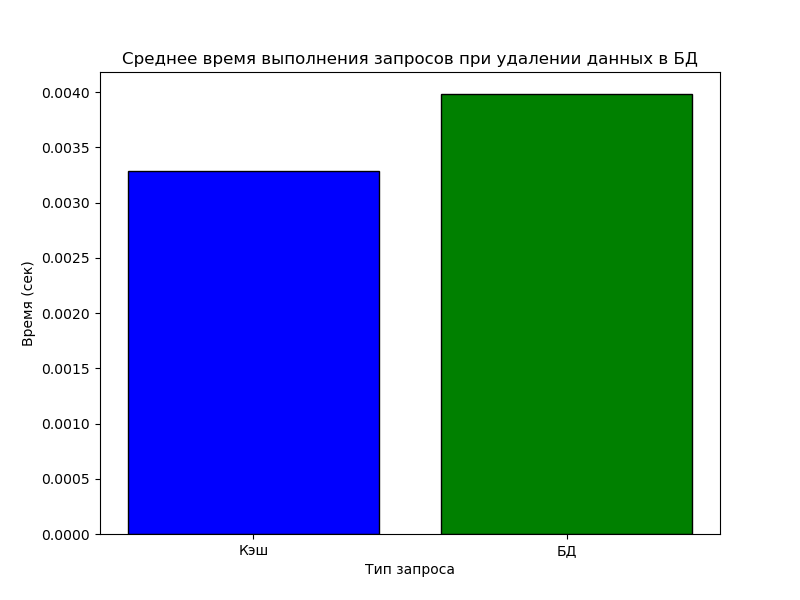
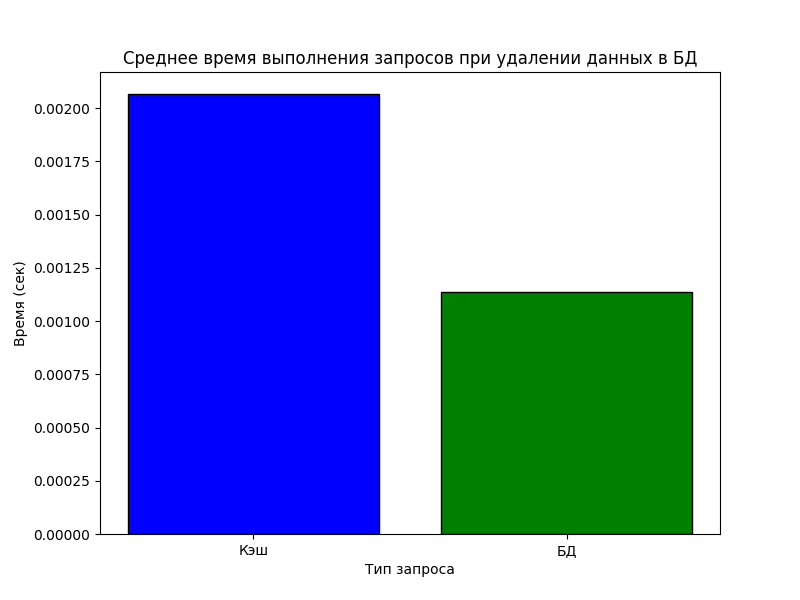
lab9 fix

diff --git a/lab9/task_02.py b/lab9/task_02.py
@@ -2,18 +2,19 @@ import psycopg2
 import redis
 import time
 import json
-from datetime import datetime
 import random
 from threading import Thread, Lock
 import matplotlib.pyplot as plt
 import os
-
+import string
 from config import *
-from gen_json_db_data import Data
 
 output_dir = "grhs"
 if not os.path.exists(output_dir):
     os.makedirs(output_dir)
+
+def generate_random_string(size=6, chars=string.ascii_uppercase + string.digits):
+    return ''.join(random.choice(chars) for _ in range(size))
 
 conn = psycopg2.connect(
     dbname=DB_NAME, 
@@ -23,20 +24,37 @@ conn = psycopg2.connect(
     port=DB_PORT
 )
 cursor = conn.cursor()
-flag = True
 
 r = redis.Redis(host='localhost', port=6379, db=0)
 
 cache_durations = []
 db_durations = []
+ids = []
 
 db_lock = Lock()
+flag = True
 
-def get_top_songs_from_db():
+
+def create_temp_table():
     cursor.execute("""
-        SELECT s.song_id, s.title, s.popularity
-        FROM songs s
-        ORDER BY popularity DESC
+        CREATE TABLE IF NOT EXISTS redis_table
+        (id INT,
+        name TEXT,
+        value BIGINT)""")
+    for i in range(3000):
+        cursor.execute(f"""
+                    INSERT INTO redis_table (id, name, value)
+                    VALUES (%s, %s, %s)
+            """, (i, generate_random_string(), random.randint(0, 1000)))
+        conn.commit()
+        ids.append(i)
+
+
+def get_top_data_from_db():
+    cursor.execute("""
+        SELECT id
+        FROM redis_table
+        ORDER BY value DESC
         LIMIT 10;
     """)
     try:
@@ -45,74 +63,58 @@ def get_top_songs_from_db():
         return None
 
 
-def cache_top_songs():
-    top_songs = get_top_songs_from_db()
-    r.setex('top_songs', 1800, json.dumps(top_songs))
+def cache_top_data():
+    top_data = get_top_data_from_db()
+    r.setex('top_data', 1800, json.dumps(top_data))
 
 
-def get_top_songs_from_cache():
+def get_top_data_from_cache():
     global flag
-    cached_data = r.get('top_songs')
+    cached_data = r.get('top_data')
 
     if cached_data and flag:
         return json.loads(cached_data)
     else:
         flag = True
-        cache_top_songs()
-        return get_top_songs_from_cache()
+        cache_top_data()
+        return get_top_data_from_cache()
 
 
-def add_random_song():
+def insert_random_data():
     global flag
-    cursor.execute("SELECT COALESCE(MAX(song_id), 0) + 1 FROM songs")
-    newID = cursor.fetchone()[0]
-
-    data = Data()
-    new_song = data.generate_song(1)
-    cursor.execute("""
-            INSERT INTO songs (song_id, title, duration, popularity, clip)
-            VALUES (%s, %s, %s, %s, %s)
-    """, (newID, new_song[1], new_song[2], new_song[3], new_song[4]))
+    new_id = len(ids)
+    cursor.execute(f"""
+            INSERT INTO redis_table (id, name, value)
+            VALUES (%s, %s, %s)
+    """, (new_id, generate_random_string(), random.randint(0, 1000)))
     conn.commit()
+    ids.append(new_id)
 
     flag = False
 
 
-def delete_random_song():
-    while True:
-        random_id = random.randint(1, 1000)
-        cursor.execute("SELECT COUNT(*) FROM songs WHERE song_id = %s", (random_id,))
-        exists = cursor.fetchone()[0] > 0
-        if exists:
-            cursor.execute('''
-                           DELETE FROM labels WHERE song_id = %s;
-                           DELETE FROM songs WHERE song_id = %s''', (random_id, random_id))
-            conn.commit()
-            global flag
-            flag = False
-            break
+def delete_random_data():
+    rand_id = random.choice(ids)
+    ids.remove(rand_id)
+    cursor.execute(f"DELETE FROM redis_table WHERE id = {rand_id}")
+    conn.commit()
+    global flag
+    flag = False
 
 
-def update_random_song():
-    prod_count = random.randint(1, 1000) 
-    while True:
-        random_id = random.randint(1, 1000)
-        cursor.execute("SELECT COUNT(*) FROM songs WHERE song_id = %s", (random_id,))
-        exists = cursor.fetchone()[0] > 0
-        if exists:
-            duration = random.randint(100, 1000)
-            cursor.execute("UPDATE songs SET duration = %s WHERE song_id = %s", (duration, random_id))
-            conn.commit()
-            global flag
-            flag = False
-            break
+def update_random_data():
+    cursor.execute("UPDATE redis_table SET name = %s WHERE id = %s",
+                   (generate_random_string(), random.choice(ids)))
+    conn.commit()
+    global flag
+    flag = False
 
 
 def cache_query():
     for _ in range(QUERIES_COUNT):
         with db_lock:
             start_time = time.time()
-            get_top_songs_from_cache()
+            get_top_data_from_cache()
             duration = time.time() - start_time
             cache_durations.append(duration)
         time.sleep(DELAY // 2)
@@ -122,7 +124,7 @@ def db_query():
     for _ in range(QUERIES_COUNT):
         with db_lock:
             start_time = time.time()
-            get_top_songs_from_db()
+            get_top_data_from_db()
             duration = time.time() - start_time
             db_durations.append(duration)
         time.sleep(DELAY // 2)
@@ -131,21 +133,21 @@ def db_query():
 def data_insert():
     for _ in range(QUERIES_COUNT // 2):
         with db_lock:
-            add_random_song()
+            insert_random_data()
         time.sleep(DELAY)
 
 
 def data_delete():
     for _ in range(QUERIES_COUNT // 2):
         with db_lock:
-            delete_random_song()
+            delete_random_data()
         time.sleep(DELAY)
 
 
 def data_update():
     for _ in range(QUERIES_COUNT // 2):
         with db_lock:
-            update_random_song()
+            update_random_data()
         time.sleep(DELAY)
 
 
@@ -315,10 +317,12 @@ def graph_update():
 
 
 if __name__ == '__main__':
-   graph_insert()
-   graph_just()
-   graph_delete()
-   graph_update()
-
-cursor.close()
-conn.close()
+    create_temp_table()
+    graph_insert()
+    graph_just()
+    graph_delete()
+    graph_update()
+    cursor.execute("DROP TABLE IF EXISTS redis_table")
+    conn.commit()
+    cursor.close()
+    conn.close()

diff --git a/lab9/config.py b/lab9/config.py
@@ -4,5 +4,5 @@ DB_PASS = "1337"
 DB_HOST = "localhost"
 DB_PORT = "5432"
 
-DELAY = 2
+DELAY = 10
 QUERIES_COUNT = 6
